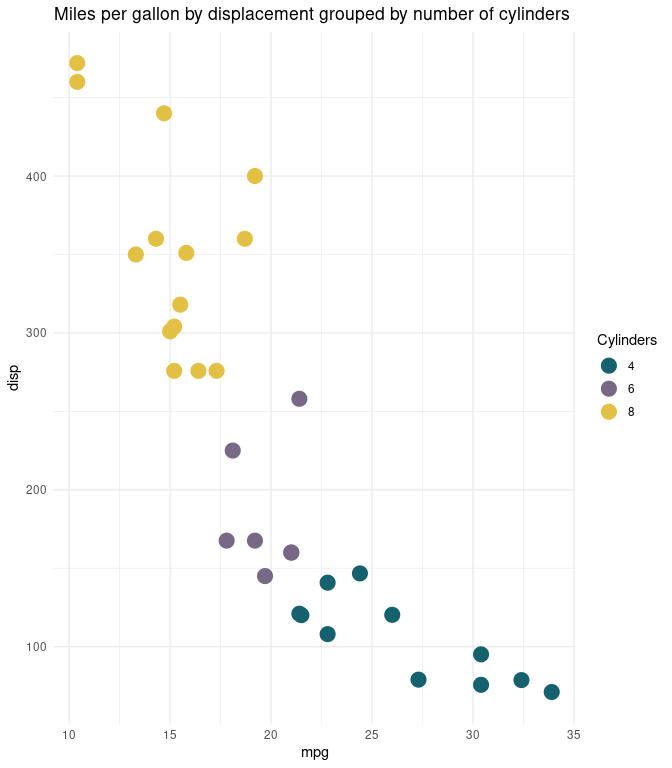
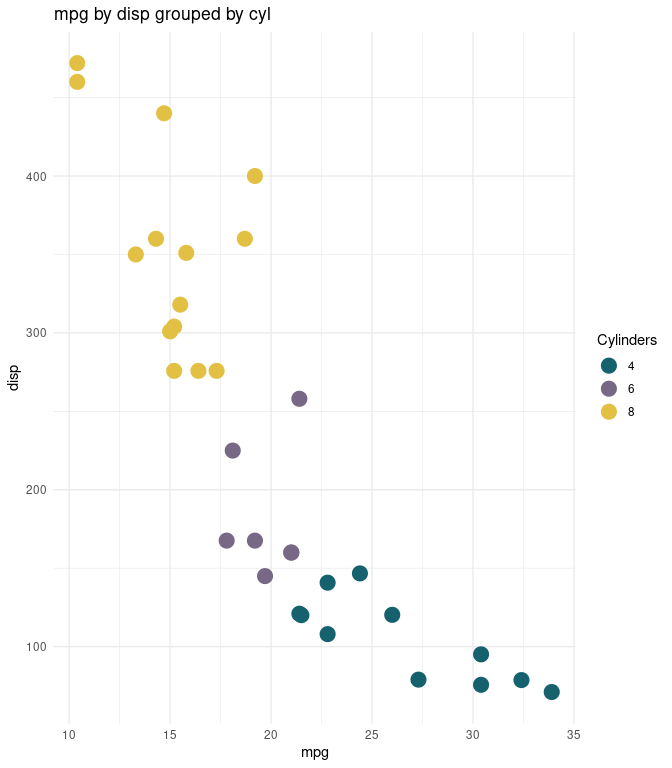
refactor create palette functions

Changed region(s): [[0.0625, 0.0, 0.8438, 0.0312]]

diff --git a/README.md b/README.md
@@ -227,7 +227,7 @@ plot(
       oxford_theme_palettes()$celebratory[3]
     )
   ),
-  main = "Miles per gallon by displacement grouped by number of cylinders",
+  main = "mpg by disp grouped by cyl",
   xlab = "mpg", ylab = "disp",
   frame.plot = FALSE
 )
@@ -242,8 +242,11 @@ legend(
 ### ggplot2
 ggplot(data = mtcars, mapping = aes(x = mpg, y = disp, colour = factor(cyl))) +
   geom_point(size = 5) +
-  scale_colour_manual(name = "Cylinders", values = oxford_theme_palettes()$celebratory) +
-  labs(title = "Miles per gallon by displacement grouped by number of cylinders") +
+  scale_colour_manual(
+    name = "Cylinders", 
+    values = oxford_theme_palettes()$celebratory
+  ) +
+  labs(title = "mpg by disp grouped by cyl") +
   theme_minimal()
 ```
 
@@ -284,37 +287,33 @@ ggplot(data = nut_survey_map) +
 <img src="man/figures/README-oxford-palette-sequential-1.png" width="50%" /><img src="man/figures/README-oxford-palette-sequential-2.png" width="50%" />
 
 ``` r
-## Plot acute malnutrition using Oxford divergent palette
+## Plot period prevalence of fever and diarrhoea using Oxford divergent palette
 
 ### Pink-Yellow-Green
 ggplot(data = nut_survey_map) +
-  geom_sf(mapping = aes(fill = muac_mam)) +
+  geom_sf(mapping = aes(fill = fev)) +
   scale_fill_gradientn(
     name = "",
     colours = create_palette_divergent(n = 11, name = "piylgn")
   ) +
   labs(
-    title = "Prevalence of moderate child wasting",
+    title = "Period prevalence of childhood fever",
     subtitle = "Divergent Pink-Yellow-Green Colour Palette"
   ) +
   theme_minimal()
-#> Warning in create_palette_divergent(n = 11, name = "piylgn"): Divergent
-#> palettes have maximum 11 colours. Returning 11 colours.
 
 ### Purple-Green
 ggplot(data = nut_survey_map) +
-  geom_sf(mapping = aes(fill = muac_sam)) +
+  geom_sf(mapping = aes(fill = dia)) +
   scale_fill_gradientn(
     name = "",
     colours = create_palette_divergent(n = 11, name = "prgn")
   ) +
   labs(
-    title = "Prevalence of severe child wasting",
+    title = "Period prevalence of childhood diarrhoea",
     subtitle = "Divergent Purple-Green Colour Palette"
   ) +
   theme_minimal()
-#> Warning in create_palette_divergent(n = 11, name = "prgn"): Divergent palettes
-#> have maximum 11 colours. Returning 11 colours.
 ```
 
 <img src="man/figures/README-oxford-palette-divergent-1.png" width="50%" /><img src="man/figures/README-oxford-palette-divergent-2.png" width="50%" />
